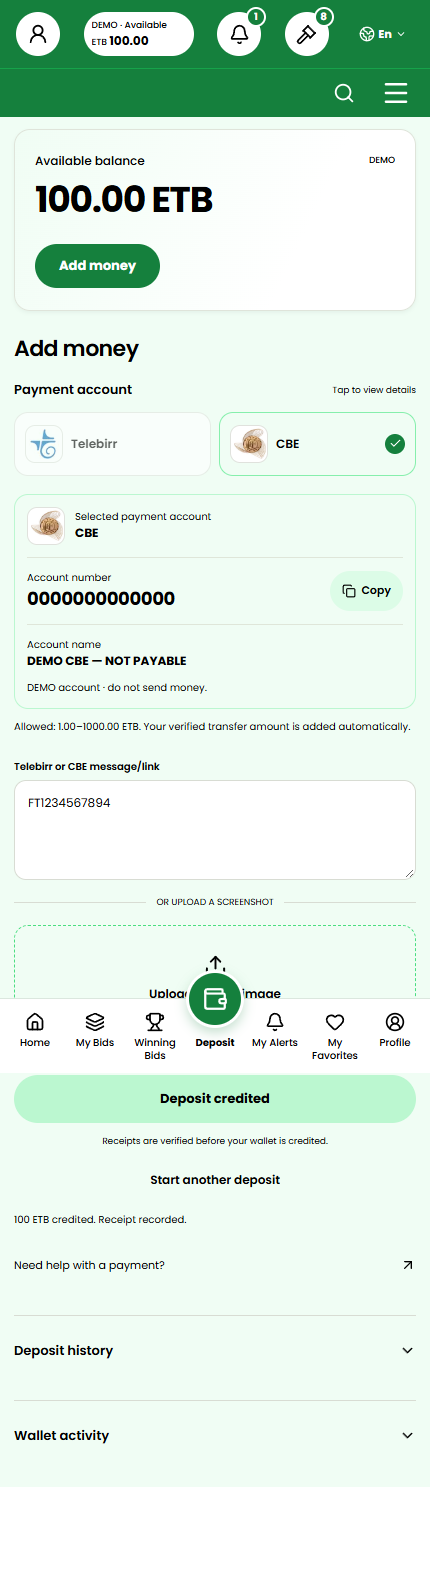
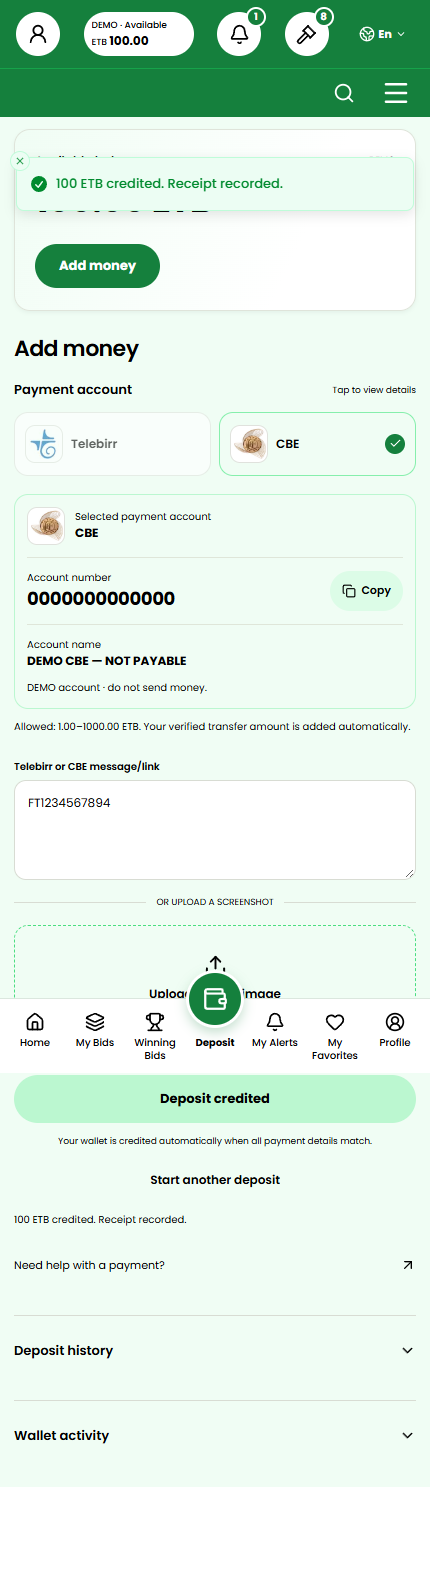
a

diff --git a/docs/deposit-feedback-and-queue.md b/docs/deposit-feedback-and-queue.md
@@ -18,4 +18,6 @@ No schema migration, secrets or worker changes are required. Deploy the reviewed
 
 Rollback uses the previous application revision. Do not delete payment claims, journals, attempts or audit rows; credited funds use the existing audited reversal process if correction is needed. Archived records remain stored and can be inspected directly or reopened using case actions.
 
-Local database/unit regression: 353 tests passed across 39 files with zero skipped (307.42 seconds), including automatic provider-derived credit, concurrent duplicate submission, retained evidence, permission checks, and real local OCR. Typecheck passed. Browser and production-build results are pending. No live receipt, real transfer or production deployment has been validated by this patch.
+Local database/unit regression: 353 tests passed across 39 files with zero skipped (307.42 seconds), including automatic provider-derived credit, concurrent duplicate submission, retained evidence, permission checks, and real local OCR. Typecheck passed. All 18 payment-browser scenarios passed: 16 mobile scenarios plus the final 2 admin reruns with clean server shutdown. The first admin runs exposed an incomplete test fixture and an exact-label selector; both were corrected. The mobile checks assert top-right toast positioning, immediate progress, automatic wallet balance updates, OCR fallback and duplicate-request reuse. Production build and git diff --check passed. No live receipt, real transfer or production deployment has been validated by this patch.
+
+Review captures: [mobile feedback](screenshots/deposit-feedback-mobile-360.png), [automatic credit](screenshots/simple-deposit-receipt-mobile-430.png), [archived evidence](screenshots/admin-redesign-deposit-archive-admin-laptop.png).
